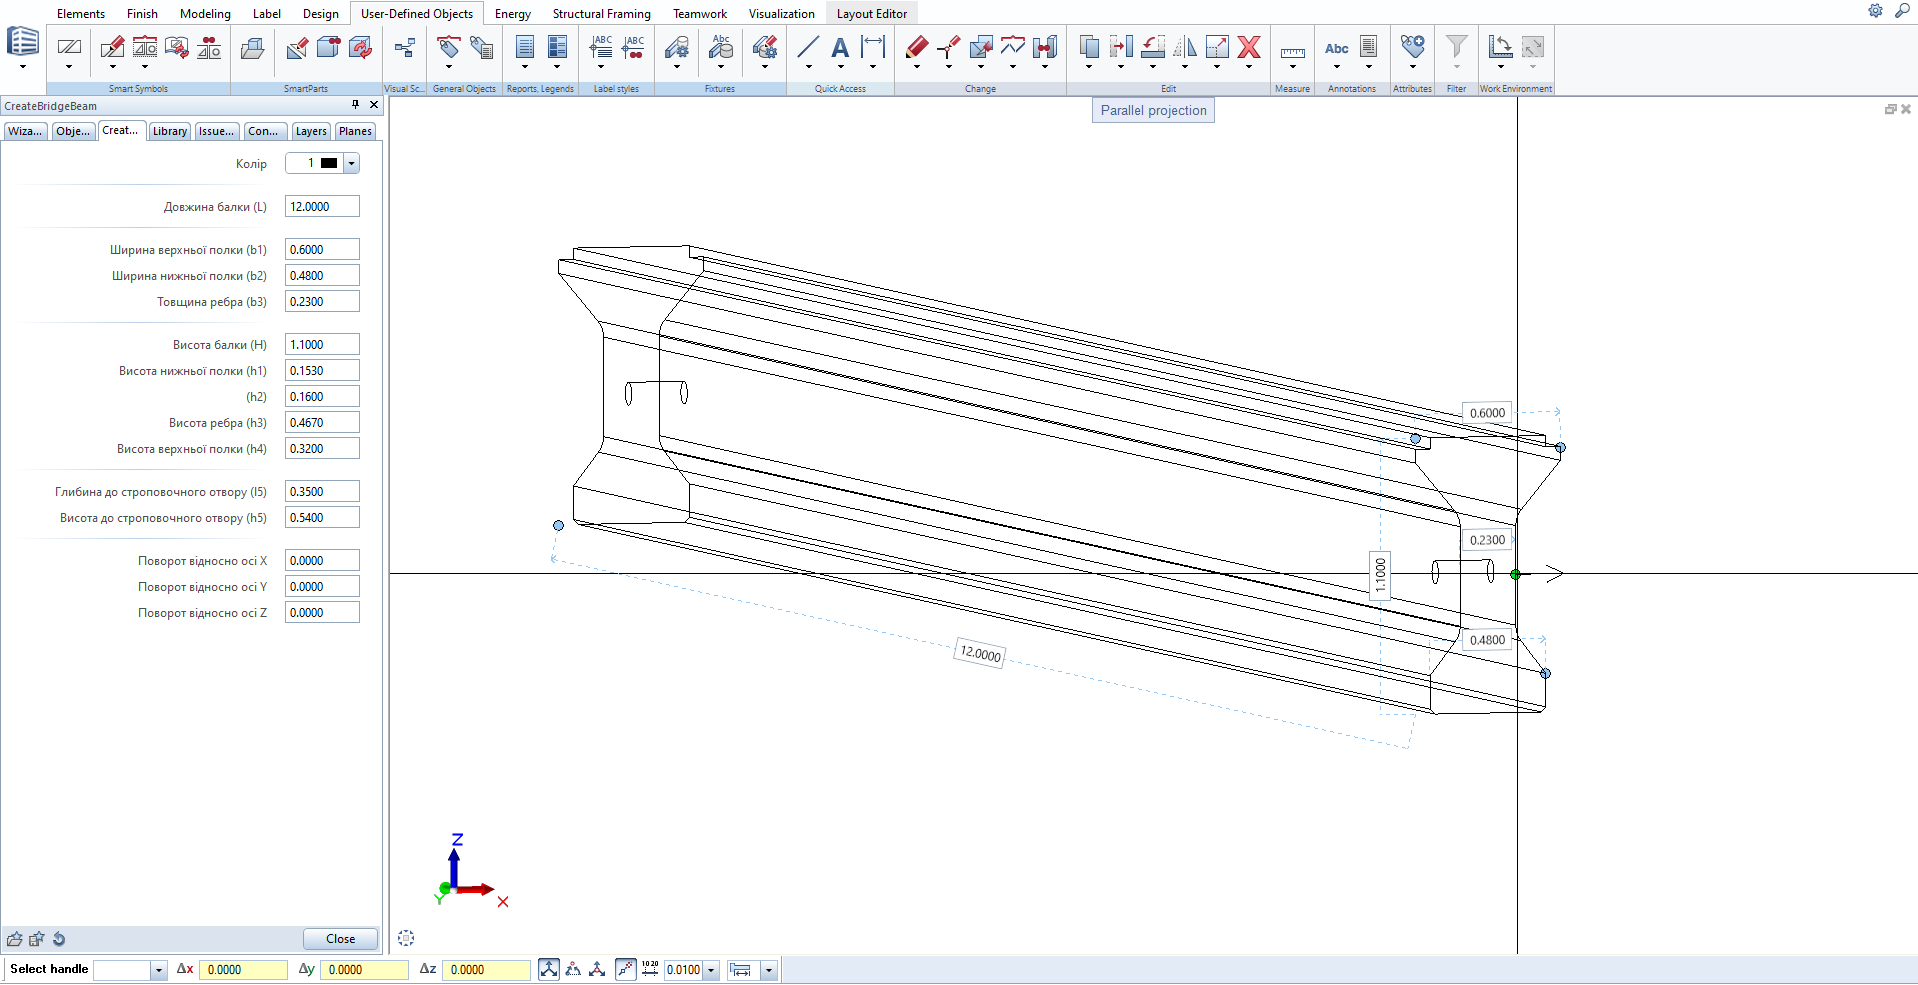
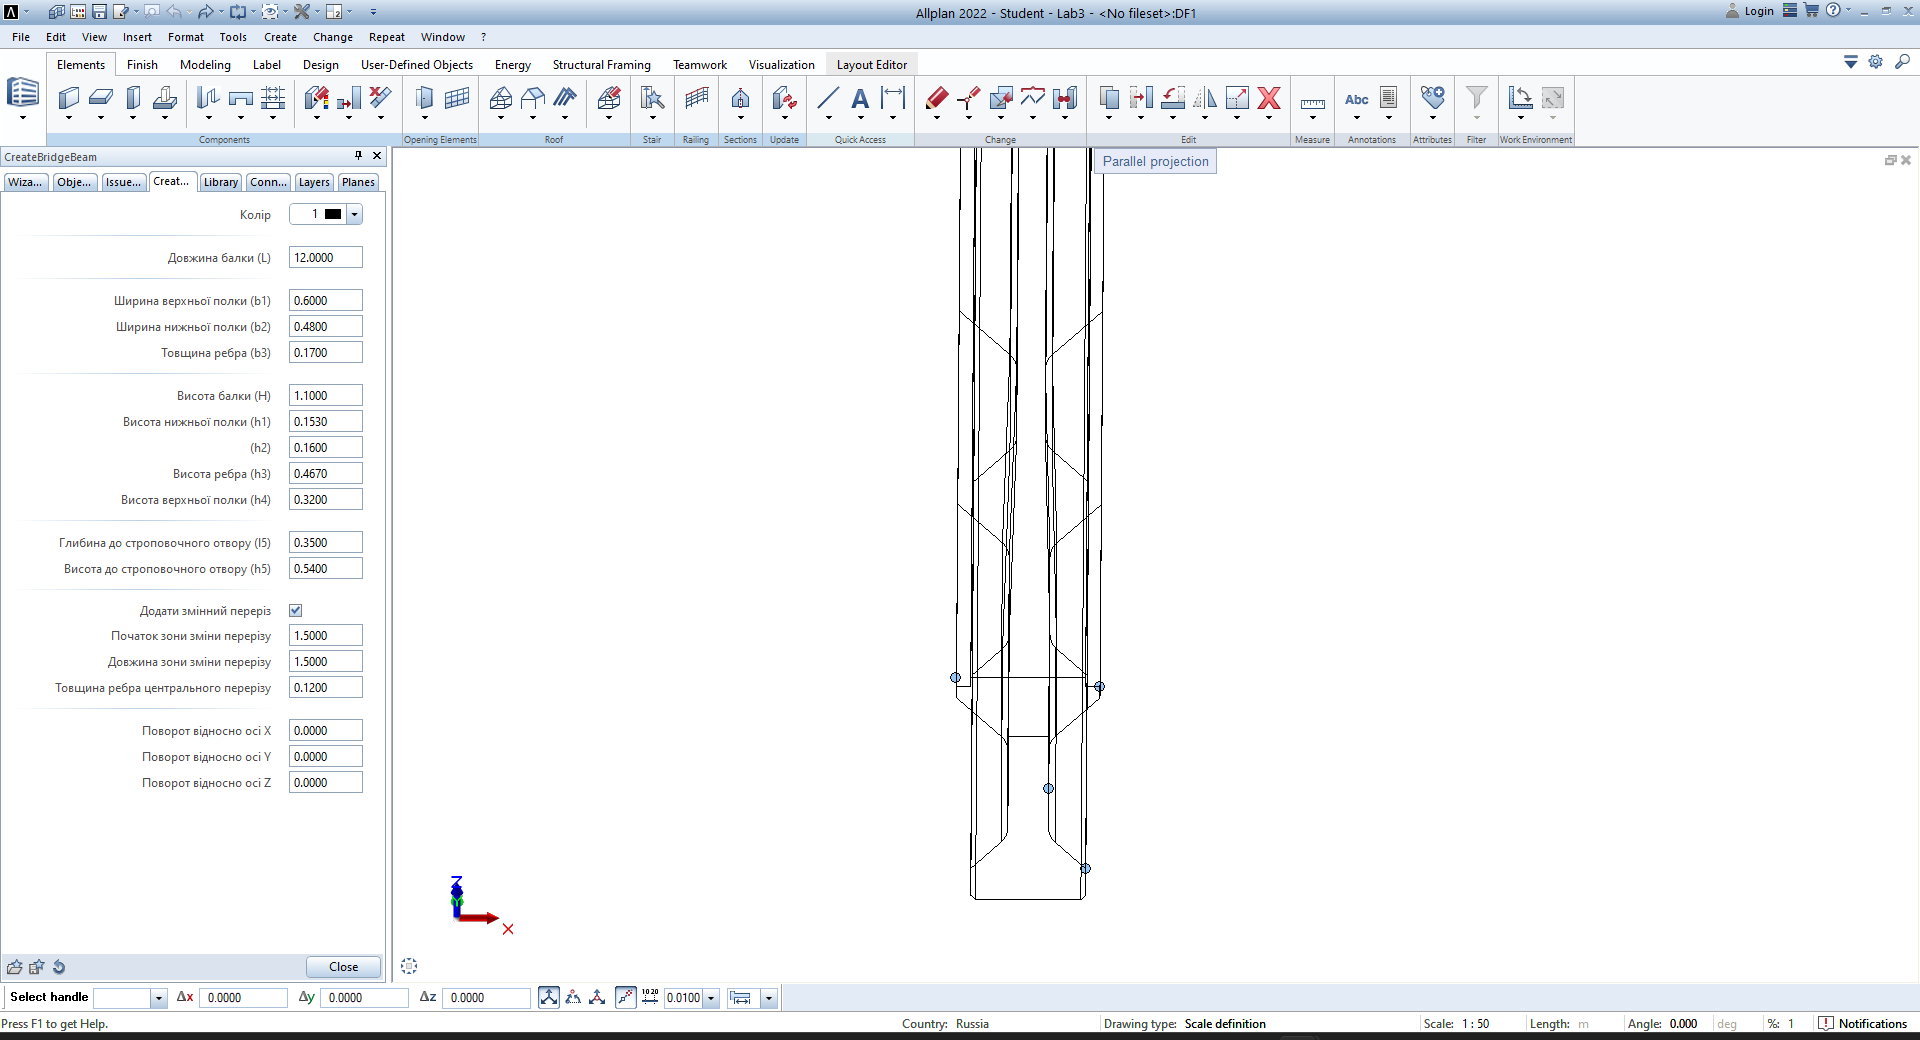
Lab3

diff --git a/PythonPartsScripts/BridgeBeam.py b/PythonPartsScripts/BridgeBeam.py
@@ -14,16 +14,13 @@ from HandleService import HandleService
 
 print('Load BridgeBeam.py')
 
-
-def check_allplan_version(build_ele, version):
-    
+def check_allplan_version(build_ele, version):    
     # Delete unused arguments
     del build_ele
     del version
 
     # Support all versions
     return True
-
 
 def create_element(build_ele, doc):
     # Create Element
@@ -40,6 +37,14 @@ def move_handle(build_ele, handle_prop, input_pnt, doc):
         build_ele.RibHeight.value = build_ele.BeamHeight.value - build_ele.TopShHeight.value - build_ele.BotShLowHeight.value - build_ele.BotShUpHeight.value
         if (build_ele.HoleHeight.value > build_ele.BeamHeight.value - build_ele.TopShHeight.value - 45.5):
             build_ele.HoleHeight.value = build_ele.BeamHeight.value - build_ele.TopShHeight.value - 45.5
+    elif (handle_prop.handle_id == "TopShWidth") or (handle_prop.handle_id == "BotShWidth") or (handle_prop.handle_id == "RibThick"):
+        temp = min(build_ele.TopShWidth.value, build_ele.BotShWidth.value)
+        if (build_ele.RibThick.value >= temp - 100.):
+            build_ele.RibThick.value = temp - 100.
+        if (build_ele.RibThick.value <= build_ele.VaryingRibThick.value):
+            build_ele.VaryingRibThick.value = build_ele.RibThick.value - 20.
+        elif (build_ele.RibThick.value - 100. >= build_ele.VaryingRibThick.value):
+            build_ele.VaryingRibThick.value = build_ele.RibThick.value - 100.
 
     # Recreate element with new properties
     return create_element(build_ele, doc)
@@ -90,25 +95,51 @@ def modify_element_property(build_ele, name, value):
         build_ele.BeamHeight.value = value + build_ele.TopShHeight.value + build_ele.BotShUpHeight.value + build_ele.BotShLowHeight.value
     elif (name == "BotShUpHeight"):
         build_ele.BeamHeight.value = value + build_ele.TopShHeight.value + build_ele.RibHeight.value + build_ele.BotShLowHeight.value
-        if (value + build_ele.BotShLowHeight.value + 45.5 > build_ele.HoleHeight.value):
-            build_ele.HoleHeight.value = value + build_ele.BotShLowHeight.value + 45.5
+        temp = value + build_ele.BotShLowHeight.value + 45.5
+        if (temp > build_ele.HoleHeight.value):
+            build_ele.HoleHeight.value = temp
     elif (name == "BotShLowHeight"):
         build_ele.BeamHeight.value = value + build_ele.TopShHeight.value + build_ele.RibHeight.value + build_ele.BotShUpHeight.value
-        if (build_ele.BotShUpHeight.value + value + 45.5 > build_ele.HoleHeight.value):
-            build_ele.HoleHeight.value = build_ele.BotShUpHeight.value + value + 45.5
+        temp = build_ele.BotShUpHeight.value + value + 45.5
+        if (temp > build_ele.HoleHeight.value):
+            build_ele.HoleHeight.value = temp
     elif (name == "HoleHeight"):
-        if (value > build_ele.BeamHeight.value - build_ele.TopShHeight.value - 45.5):
-            build_ele.HoleHeight.value = build_ele.BeamHeight.value - build_ele.TopShHeight.value - 45.5
-        elif (value < build_ele.BotShLowHeight.value + build_ele.BotShUpHeight.value + 45.5):
-            build_ele.HoleHeight.value = build_ele.BotShLowHeight.value + build_ele.BotShUpHeight.value + 45.5
-    elif (name == "HoleDepth"):
-        if (value >= build_ele.BeamLength.value / 2.):
-            build_ele.HoleDepth.value = build_ele.BeamLength.value / 2. - 45.5
+        temp = build_ele.BeamHeight.value - build_ele.TopShHeight.value - 45.5
+        temp1 = build_ele.BotShLowHeight.value + build_ele.BotShUpHeight.value + 45.5
+        if (value > temp):
+            build_ele.HoleHeight.value = temp
+        elif (value < temp1):
+            build_ele.HoleHeight.value = temp1
+    elif (name == "HoleDepth") and (value >= build_ele.BeamLength.value / 2.):
+        build_ele.HoleDepth.value = build_ele.BeamLength.value / 2. - 45.5
+    elif (name == "TopShWidth") or (name == "BotShWidth") or (name == "RibThick"):
+        temp = min(build_ele.TopShWidth.value, build_ele.BotShWidth.value)
+        if (build_ele.RibThick.value >= temp - 100.):
+            build_ele.RibThick.value = temp - 100.
+        if (value <= build_ele.VaryingRibThick.value):
+            build_ele.VaryingRibThick.value = build_ele.RibThick.value - 20.
+        elif (value - 100. >= build_ele.VaryingRibThick.value):
+            build_ele.VaryingRibThick.value = build_ele.RibThick.value - 100.
+    elif (name == "VaryingStart"):
+        temp = build_ele.BeamLength.value / 2.
+        if (value >= temp):
+            build_ele.VaryingStart.value = temp - 200.
+        temp -= build_ele.VaryingStart.value
+        if (build_ele.VaryingLength.value >= temp):
+            build_ele.VaryingLength.value = temp - 100.
+    elif (name == "VaryingLength"):
+        temp = build_ele.BeamLength.value / 2. - build_ele.VaryingStart.value
+        if (value >= temp):
+            build_ele.VaryingLength.value = temp - 100.
+    elif (name == "VaryingRibThick"):
+        if (value >= build_ele.RibThick.value):
+            build_ele.VaryingRibThick.value = build_ele.RibThick.value - 20.
+        elif (value <= build_ele.RibThick.value - 100.):
+            build_ele.VaryingRibThick.value = build_ele.RibThick.value - 100.
 
     return True
 
 class CreateBridgeBeam():
-
     def __init__(self, doc):
 
         self.model_ele_list = []
@@ -116,7 +147,7 @@ class CreateBridgeBeam():
         self.document = doc
         
     def create(self, build_ele):
-        
+                
         self._top_sh_width = build_ele.TopShWidth.value
         self._top_sh_height = build_ele.TopShHeight.value
 
@@ -124,11 +155,14 @@ class CreateBridgeBeam():
         self._bot_sh_up_height = build_ele.BotShUpHeight.value
         self._bot_sh_low_height = build_ele.BotShLowHeight.value
         self._bot_sh_height = self._bot_sh_up_height + self._bot_sh_low_height
-
-        if (build_ele.RibThick.value > min(self._top_sh_width, self._bot_sh_width)):
-            build_ele.RibThick.value = min(self._top_sh_width, self._bot_sh_width)        
+        
         self._rib_thickness = build_ele.RibThick.value
         self._rib_height = build_ele.RibHeight.value
+
+        self._varying_start = build_ele.VaryingStart.value
+        self._varying_length = build_ele.VaryingLength.value
+        self._varying_end = self._varying_start + self._varying_length
+        self._varying_rib_thickness = build_ele.VaryingRibThick.value
 
         self._beam_length = build_ele.BeamLength.value
         self._beam_width = max(self._top_sh_width, self._bot_sh_width)
@@ -151,7 +185,6 @@ class CreateBridgeBeam():
         
         return (self.model_ele_list, self.handle_list)
 
-
     def create_beam(self, build_ele):
         com_prop = AllplanBaseElements.CommonProperties()
         com_prop.GetGlobalProperties()
@@ -159,98 +192,134 @@ class CreateBridgeBeam():
         com_prop.Color = build_ele.Color3.value
         com_prop.Stroke = 1
 
+        breps = AllplanGeo.BRep3DList()
         # bottom shelf
-        bottom_shelf = AllplanGeo.BRep3D.CreateCuboid(AllplanGeo.AxisPlacement3D(AllplanGeo.Point3D((self._beam_width - self._bot_sh_width) / 2., 0., 0.), AllplanGeo.Vector3D(1, 0, 0), AllplanGeo.Vector3D(0, 0, 1)), self._bot_sh_width, self._beam_length, self._bot_sh_height)
+        bottom_shelf = AllplanGeo.BRep3D.CreateCuboid(AllplanGeo.AxisPlacement3D(AllplanGeo.Point3D((self._beam_width - self._bot_sh_width) / 2., 0., 0.), AllplanGeo.Vector3D(1, 0, 0), AllplanGeo.Vector3D(0, 0, 1)), self._bot_sh_width / 2., self._beam_length / 2., self._bot_sh_height)
 
         edges = AllplanUtil.VecSizeTList()
         edges.append(10)
-        edges.append(8)
         err, bottom_shelf = AllplanGeo.ChamferCalculus.Calculate(bottom_shelf, edges, 20., False)
+        if not GeometryValidate.polyhedron(err):
+            return        
+        breps.append(bottom_shelf)
         
         # top shelf
-        top_shelf = AllplanGeo.BRep3D.CreateCuboid(AllplanGeo.AxisPlacement3D(AllplanGeo.Point3D((self._beam_width - self._top_sh_width) / 2., 0., self._beam_height - self._top_sh_height), AllplanGeo.Vector3D(1, 0, 0), AllplanGeo.Vector3D(0, 0, 1)), self._top_sh_width, self._beam_length, self._top_sh_height)
+        top_shelf = AllplanGeo.BRep3D.CreateCuboid(AllplanGeo.AxisPlacement3D(AllplanGeo.Point3D((self._beam_width - self._top_sh_width) / 2., 0., self._beam_height - self._top_sh_height), AllplanGeo.Vector3D(1, 0, 0), AllplanGeo.Vector3D(0, 0, 1)), self._top_sh_width / 2., self._beam_length / 2., self._top_sh_height)
 
-        top_shelf_notch = AllplanGeo.BRep3D.CreateCuboid(AllplanGeo.AxisPlacement3D(AllplanGeo.Point3D((self._beam_width - self._top_sh_width) / 2., 0., self._beam_height - 45.), AllplanGeo.Vector3D(1, 0, 0), AllplanGeo.Vector3D(0, 0, 1)), 60., self._beam_length, 45.)
+        top_shelf_notch = AllplanGeo.BRep3D.CreateCuboid(AllplanGeo.AxisPlacement3D(AllplanGeo.Point3D((self._beam_width - self._top_sh_width) / 2., 0., self._beam_height - 45.), AllplanGeo.Vector3D(1, 0, 0), AllplanGeo.Vector3D(0, 0, 1)), 60., self._beam_length  / 2., 45.)
         err, top_shelf = AllplanGeo.MakeSubtraction(top_shelf, top_shelf_notch)
         if not GeometryValidate.polyhedron(err):
             return
-        top_shelf_notch = AllplanGeo.Move(top_shelf_notch, AllplanGeo.Vector3D(self._top_sh_width - 60., 0, 0))
-        err, top_shelf = AllplanGeo.MakeSubtraction(top_shelf, top_shelf_notch)
-        if not GeometryValidate.polyhedron(err):
-            return
+        breps.append(top_shelf)
         
-        err, beam = AllplanGeo.MakeUnion(bottom_shelf, top_shelf)
-        if not GeometryValidate.polyhedron(err):
-            return
-
         # rib
-        rib = AllplanGeo.BRep3D.CreateCuboid(AllplanGeo.AxisPlacement3D(AllplanGeo.Point3D(0., 0., self._bot_sh_height), AllplanGeo.Vector3D(1, 0, 0), AllplanGeo.Vector3D(0, 0, 1)), self._beam_width, self._beam_length, self._rib_height)
+        rib = AllplanGeo.BRep3D.CreateCuboid(AllplanGeo.AxisPlacement3D(AllplanGeo.Point3D(0., 0., self._bot_sh_height), AllplanGeo.Vector3D(1, 0, 0), AllplanGeo.Vector3D(0, 0, 1)), self._beam_width / 2., self._beam_length / 2., self._rib_height)
+        breps.append(rib)
         
-        err, beam = AllplanGeo.MakeUnion(beam, rib)
+        err, beam = AllplanGeo.MakeUnion(breps)
         if not GeometryValidate.polyhedron(err):
             return
-        
-        # left and right notches
-        left_notch_pol = AllplanGeo.Polygon2D()
-        left_notch_pol += AllplanGeo.Point2D((self._beam_width - self._rib_thickness) / 2., self._beam_height - self._top_sh_height)
-        left_notch_pol += AllplanGeo.Point2D((self._beam_width - self._rib_thickness) / 2., self._bot_sh_height)
-        left_notch_pol += AllplanGeo.Point2D((self._beam_width - self._bot_sh_width) / 2., self._bot_sh_low_height)
-        left_notch_pol += AllplanGeo.Point2D(0., self._bot_sh_low_height)     
-        left_notch_pol += AllplanGeo.Point2D(0., self._beam_height - 100.)
-        left_notch_pol += AllplanGeo.Point2D(0., self._beam_height - 100.)
-        left_notch_pol += AllplanGeo.Point2D((self._beam_width - self._top_sh_width) / 2., self._beam_height - 100.)
-        left_notch_pol += AllplanGeo.Point2D((self._beam_width - self._rib_thickness) / 2., self._beam_height - self._top_sh_height)
-        if not GeometryValidate.is_valid(left_notch_pol):
+
+        # notches
+        breps = AllplanGeo.BRep3DList()                
+        notch_pol = AllplanGeo.Polyline3D()
+        start_point = AllplanGeo.Point3D((self._beam_width - self._rib_thickness) / 2., 0., self._beam_height - self._top_sh_height)
+        notch_pol += start_point
+        notch_pol += AllplanGeo.Point3D((self._beam_width - self._rib_thickness) / 2., 0., self._bot_sh_height)
+        notch_pol += AllplanGeo.Point3D((self._beam_width - self._bot_sh_width) / 2., 0., self._bot_sh_low_height)
+        notch_pol += AllplanGeo.Point3D(-10., 0., self._bot_sh_low_height)     
+        notch_pol += AllplanGeo.Point3D(-10., 0., self._beam_height - 100.)
+        notch_pol += AllplanGeo.Point3D((self._beam_width - self._top_sh_width) / 2., 0., self._beam_height - 100.)
+        notch_pol += start_point
+        if not GeometryValidate.is_valid(notch_pol):
             return
-        
+
         path = AllplanGeo.Polyline3D()
         path += AllplanGeo.Point3D(0, 0, 0)
-        path += AllplanGeo.Point3D(0, build_ele.BeamLength.value, 0)
-
-        err, notches = AllplanGeo.CreatePolyhedron(left_notch_pol, AllplanGeo.Point2D(0., 0.), path)
-        if GeometryValidate.polyhedron(err):
-            edges = AllplanUtil.VecSizeTList()
-            if (self._rib_thickness == self._bot_sh_width):
-                edges.append(0)
-            elif (self._rib_thickness == self._top_sh_width):
-                edges.append(1)
-            else:
-                edges.append(0)
-                edges.append(2)
-            err, notches = AllplanGeo.FilletCalculus3D.Calculate(notches, edges, 100., False)
-
-            plane = AllplanGeo.Plane3D(AllplanGeo.Point3D(self._beam_width / 2., 0, 0), AllplanGeo.Vector3D(1, 0, 0))
-            right_notch = AllplanGeo.Mirror(notches, plane)
-
-            err, notches = AllplanGeo.MakeUnion(notches, right_notch)
-            if not GeometryValidate.polyhedron(err):
-                return
-            
-            err, beam = AllplanGeo.MakeSubtraction(beam, notches)
-            if not GeometryValidate.polyhedron(err):
-                return
-
-        # sling_holes
-        sling_holes = AllplanGeo.BRep3D.CreateCylinder(AllplanGeo.AxisPlacement3D(AllplanGeo.Point3D(0,build_ele.HoleDepth.value, build_ele.HoleHeight.value), AllplanGeo.Vector3D(0, 0, 1), AllplanGeo.Vector3D(1, 0, 0)), 45.5, self._beam_width)
+        path += AllplanGeo.Point3D(0, self._varying_start, 0) if build_ele.CheckBoxV.value else AllplanGeo.Point3D(0, self._beam_length / 2., 0)
         
-        sling_hole_moved = AllplanGeo.Move(sling_holes, AllplanGeo.Vector3D(0., self._beam_length - self._hole_depth * 2, 0))
-
-        err, sling_holes = AllplanGeo.MakeUnion(sling_holes, sling_hole_moved)
+        err, notch = AllplanGeo.CreateSweptBRep3D(notch_pol, path, False, None)
         if not GeometryValidate.polyhedron(err):
             return
+        edges = AllplanUtil.VecSizeTList()
+        edges.append(3)
+        edges.append(1)
+        err, notch = AllplanGeo.FilletCalculus3D.Calculate(notch, edges, 100., False)
+        if not GeometryValidate.polyhedron(err):
+            return
+        breps.append(notch)
+
+        # varying profile notches
+        if build_ele.CheckBoxV.value:
+            profiles = []
+            profiles.append(AllplanGeo.Move(notch_pol, AllplanGeo.Vector3D(0, self._varying_start, 0)))
+                    
+            lines = []
+            lines.append(AllplanGeo.Line3D(notch_pol.GetPoint(0), notch_pol.GetPoint(5)))
+            lines.append(AllplanGeo.Line3D(notch_pol.GetPoint(1), notch_pol.GetPoint(2)))
+            lines.append(AllplanGeo.Move(AllplanGeo.Line3D(notch_pol.GetPoint(0), notch_pol.GetPoint(1)), AllplanGeo.Vector3D((self._rib_thickness - self._varying_rib_thickness) / 2., 0, 0)))
+            intersections = [None,None]
+            b, intersections[0] = AllplanGeo.IntersectionCalculusEx(lines[0], lines[2])
+            b, intersections[1] = AllplanGeo.IntersectionCalculusEx(lines[1], lines[2])
+                        
+            notch_pol = AllplanGeo.Polyline3D()
+            start_point = AllplanGeo.Point3D((self._beam_width - self._varying_rib_thickness) / 2., self._varying_end, intersections[0].Z)
+            notch_pol += start_point
+            notch_pol += AllplanGeo.Point3D((self._beam_width - self._varying_rib_thickness) / 2., self._varying_end, intersections[1].Z)
+            notch_pol += AllplanGeo.Point3D((self._beam_width - self._bot_sh_width) / 2., self._varying_end, self._bot_sh_low_height)
+            notch_pol += AllplanGeo.Point3D(-10., self._varying_end, self._bot_sh_low_height)     
+            notch_pol += AllplanGeo.Point3D(-10., self._varying_end, self._beam_height - 100.)
+            notch_pol += AllplanGeo.Point3D((self._beam_width - self._top_sh_width) / 2., self._varying_end, self._beam_height - 100.)
+            notch_pol += start_point
+            if not GeometryValidate.is_valid(notch_pol):
+                return
             
-        err, beam = AllplanGeo.MakeSubtraction(beam, sling_holes)
+            path = AllplanGeo.Polyline3D()
+            path += AllplanGeo.Point3D(0, self._varying_end, 0)
+            path += AllplanGeo.Point3D(0, self._beam_length / 2., 0)
+
+            err, notch = AllplanGeo.CreateSweptBRep3D(notch_pol, path, False, None)
+            if not GeometryValidate.polyhedron(err):
+                return
+            err, notch = AllplanGeo.FilletCalculus3D.Calculate(notch, edges, 100., False)
+            if not GeometryValidate.polyhedron(err):
+                return
+            breps.append(notch)
+
+            profiles.append(notch_pol)
+            path = AllplanGeo.Line3D(profiles[0].GetStartPoint(), profiles[1].GetStartPoint())
+
+            err, notch = AllplanGeo.CreateRailSweptBRep3D(profiles, [path], True, False, False)
+
+            edges = AllplanUtil.VecSizeTList()
+            edges.append(11)
+            edges.append(9)
+            err, notch = AllplanGeo.FilletCalculus3D.Calculate(notch, edges, 100., False)
+            if not GeometryValidate.polyhedron(err):
+                return
+            breps.append(notch)
+
+        # sling_holes
+        sling_hole = AllplanGeo.BRep3D.CreateCylinder(AllplanGeo.AxisPlacement3D(AllplanGeo.Point3D(0,build_ele.HoleDepth.value, build_ele.HoleHeight.value), AllplanGeo.Vector3D(0, 0, 1), AllplanGeo.Vector3D(1, 0, 0)), 45.5, self._beam_width)
+        breps.append(sling_hole)
+        
+        err, beam = AllplanGeo.MakeSubtraction(beam, breps)
         if not GeometryValidate.polyhedron(err):
             return
 
         # result beam
-        
+        plane = AllplanGeo.Plane3D(AllplanGeo.Point3D(self._beam_width / 2., 0, 0), AllplanGeo.Vector3D(1, 0, 0))
+        err, beam = AllplanGeo.MakeUnion(beam, AllplanGeo.Mirror(beam, plane))
+        if not GeometryValidate.polyhedron(err):
+            return
+        plane.Set(AllplanGeo.Point3D(0, self._beam_length / 2., 0), AllplanGeo.Vector3D(0, 1, 0))
+        err, beam = AllplanGeo.MakeUnion(beam, AllplanGeo.Mirror(beam, plane))
+        if not GeometryValidate.polyhedron(err):
+            return
         self.model_ele_list.append(AllplanBasisElements.ModelElement3D(com_prop, beam))
-        
 
-    def create_handles(self, build_ele):
-        
-        #------------------ Define handles
+    def create_handles(self, build_ele):        
+        # Define handles
         handle1 = HandleProperties("BeamLength",
                                    AllplanGeo.Point3D(0., self._beam_length, 0.),
                                    AllplanGeo.Point3D(0, 0, 0),
